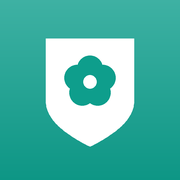
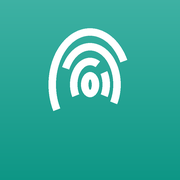
조사노트 아이콘 — 방패에서 지장으로
jae가 지장을 골랐으나 첫 판은 무지개로 보였다. 굵기 같은 반원 셋이
나란히 떠 있던 탓이다. 선을 중간중간 끊고 가운데에 닫힌 고리를 두어
지문으로 읽히게 했다(후보 넷 중 「라」).

Changed region(s): [[0.25, 0.1389, 0.75, 0.8333]]

diff --git a/docs/sw.js b/docs/sw.js
@@ -1,5 +1,5 @@
 /* 노트앱 서비스워커 — 앱 껍데기를 통째로 캐시한다. 판이 바뀌면 V 가 바뀌어 옛 캐시는 지운다 */
-const V="notedesk-83adf7942f";
+const V="notedesk-85834e69c2";
 const SHELL=["./", "./index.html", "./vendor/jszip.min.js", "./sangdam/icon-180.png", "./sangdam/icon-192.png", "./gijil/", "./gijil/index.html", "./gijil/manifest.webmanifest", "./gijil/icon-180.png", "./gijil/icon-192.png", "./gijil/icon-512.png", "./josa/", "./josa/index.html", "./josa/manifest.webmanifest", "./josa/icon-180.png", "./josa/icon-192.png", "./josa/icon-512.png", "./sangdam/", "./sangdam/index.html", "./sangdam/manifest.webmanifest", "./sangdam/icon-512.png"];
 self.addEventListener("install",e=>{
   e.waitUntil(caches.open(V).then(c=>c.addAll(SHELL.map(u=>new Request(u,{cache:"reload"})))).then(()=>self.skipWaiting()));

diff --git a/빌드.py b/빌드.py
@@ -177,24 +177,20 @@ def _mark_gijil(d, S, col, bg):
 
 
 def _mark_josa(d, S, col, bg):
-    """조사 = 수사기관. 방패 안에 무궁화 — 경찰 공식 문양은 그대로 쓰지 않는다."""
-    import math
-    x0, x1 = S * .255, S * .745
-    y0, ym, y1 = S * .215, S * .560, S * .815
-    pts = [(x0, y0), (x1, y0)]
-    for i in range(41):                  # 오른쪽 어깨에서 아래 꼭짓점까지
-        t = i / 40
-        pts.append((x1 - (x1 - S * .5) * (t ** 2.1), ym + (y1 - ym) * t))
-    for i in range(41):
-        t = 1 - i / 40
-        pts.append((x0 + (S * .5 - x0) * (t ** 2.1), ym + (y1 - ym) * t))
-    d.polygon(pts, fill=col)
-    cx, cy, pr = S * .5, S * .455, S * .072      # 무궁화 다섯 잎
-    for k in range(5):
-        th = -math.pi / 2 + k * 2 * math.pi / 5
-        px, py = cx + math.cos(th) * pr * 1.02, cy + math.sin(th) * pr * 1.02
-        d.ellipse([px - pr, py - pr, px + pr, py + pr], fill=bg)
-    d.ellipse([cx - pr * .52, cy - pr * .52, cx + pr * .52, cy + pr * .52], fill=col)
+    """조사 = 조서 끝에 찍는 지장. 선을 중간중간 끊어야 지문으로 읽힌다 —
+       굵기가 같은 반원을 나란히 두면 무지개로 보인다(2026-10-23 jae 지적)."""
+    w = int(S * .042)
+    cx, cy = S * .5, S * .470
+
+    def ridge(rx, ry, a0, a1):
+        d.arc([cx - S * rx, cy - S * ry, cx + S * rx, cy + S * ry], a0, a1, fill=col, width=w)
+
+    d.ellipse([cx - S * .050, cy - S * .070, cx + S * .050, cy + S * .070], outline=col, width=w)
+    for (rx, ry), (a0, a1) in zip(((.110, .148), (.170, .230), (.230, .312)),
+                                  ((152, 300), (205, 388), (152, 334))):
+        ridge(rx, ry, a0, a1)
+    ridge(.170, .230, 330, 388)          # 끊긴 자리 뒤로 이어지는 선 끝
+    ridge(.110, .148, 330, 388)
 
 
 def _mark_sangdam(d, S, col, bg):
